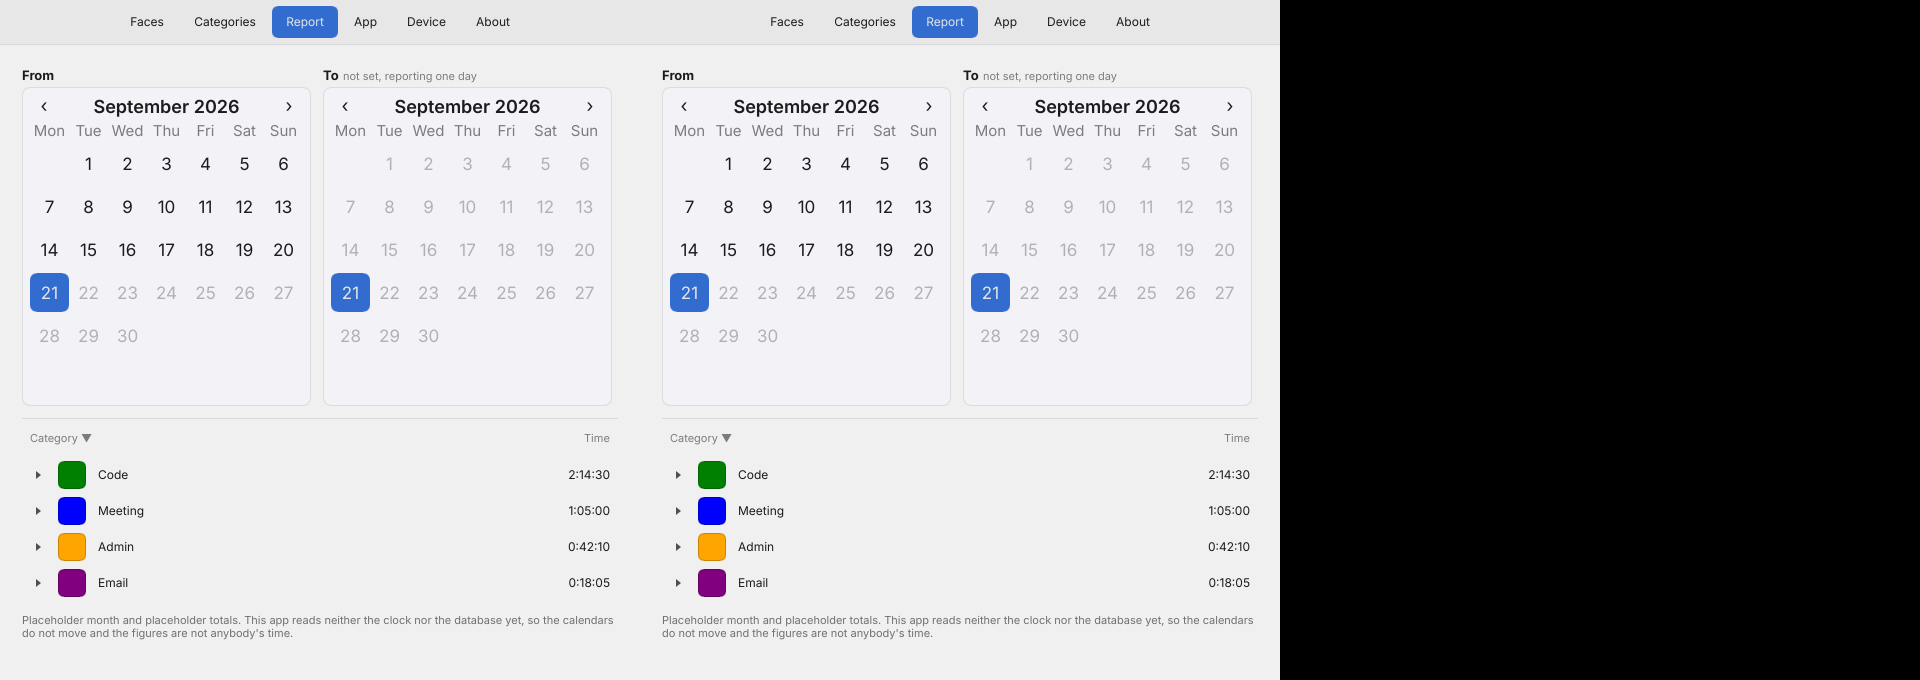
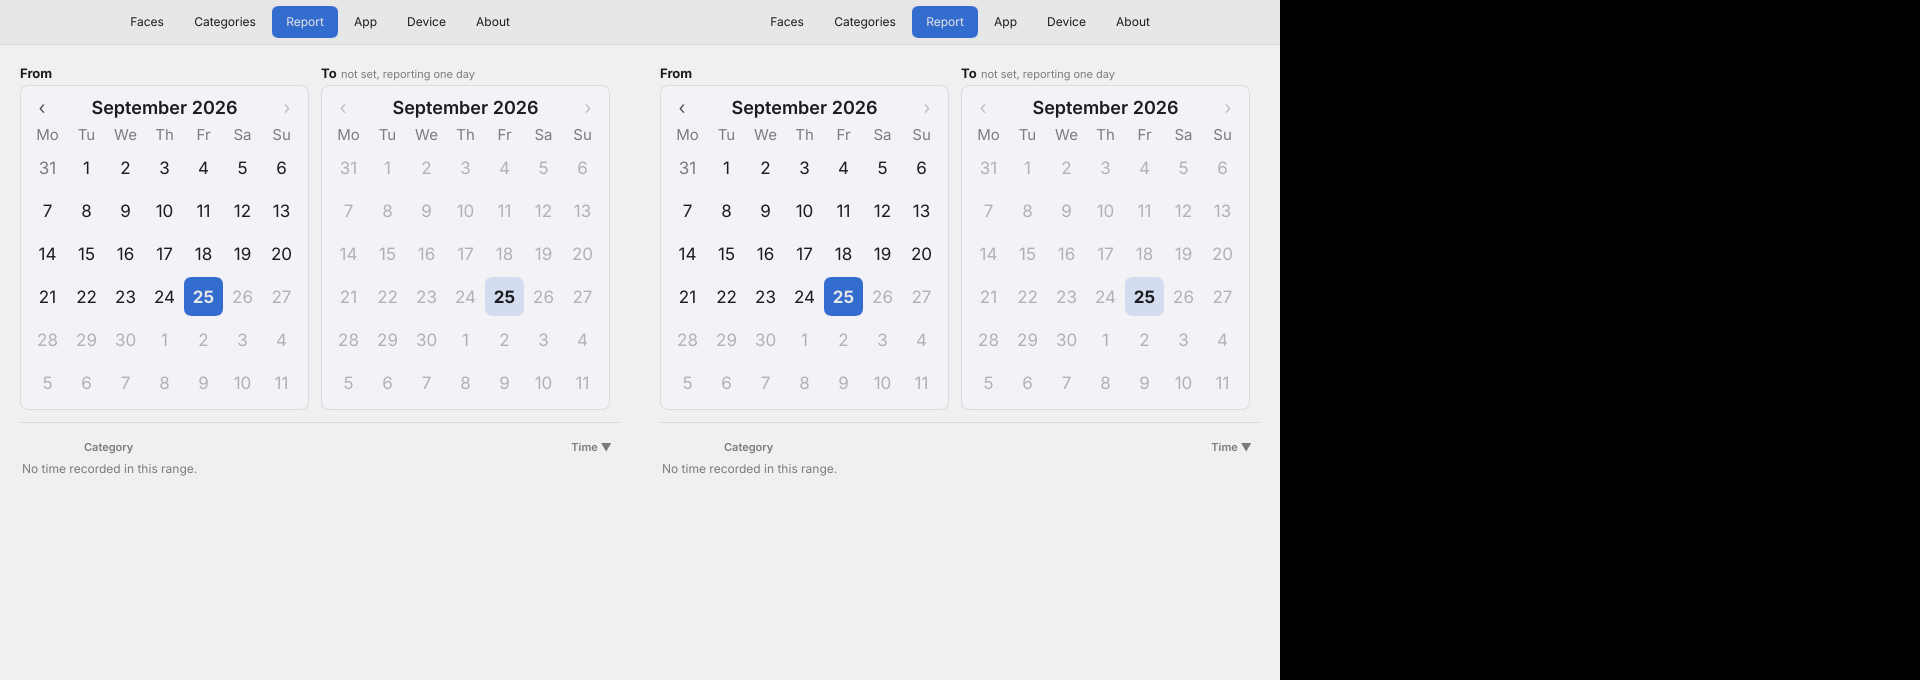
Render the Linux set on feature/reportTab with FACET_NOW, and rebuild compare
Against a clean test database with FACET_NOW at noon on 25 September
2026, all six Linux renders are byte-identical to the Mac's at 9df4256.
Only 3-report.png changed from the previous Linux set; compare/ is
rebuilt and every diff panel is empty.

diff --git a/docs/settings-tabs/README.md b/docs/settings-tabs/README.md
@@ -37,9 +37,9 @@ reproduce.
 
 | | |
 |---|---|
-| [`linux/`](linux/) | Linux Mint 22.3, MATE 1.26.1, X11, `x86_64`. Rendered 2026-09-25 on `feature/catergoryTab` at `4f7690c`, against a clean test database. `2-categories.png` is the Categories tab read from the database; the other five came out byte-identical to the set before |
+| [`linux/`](linux/) | Linux Mint 22.3, MATE 1.26.1, X11, `x86_64`. Rendered 2026-09-26 on `feature/reportTab` at `3f2d8de`, against a clean test database with `FACET_NOW` at noon on 25 September 2026. `3-report.png` is the Report tab read from the database; the other five came out byte-identical to the set before |
 | [`mac/`](mac/) | macOS 26.6.2, Apple silicon, `arm64`. Rendered 2026-09-26 on `feature/reportTab` at `3189bac`, against a clean test database with `FACET_NOW` at noon on 25 September 2026. `3-report.png` is the Report tab read from the database; the other five are unchanged |
-| [`compare/`](compare/) | One image per tab: Mac, Linux, and the pixels that differ between them. Rebuilt 2026-09-25 from Mac `e5992ef` and Linux `4f7690c`; every diff panel is empty, and all six PNGs are byte-identical across the two machines, `2-categories.png` with its icons, disabled checkbox and stepper included **Stale for `3-report.png`** until `linux/` is re-rendered on `feature/reportTab` |
+| [`compare/`](compare/) | One image per tab: Mac, Linux, and the pixels that differ between them. Rebuilt 2026-09-26 from Mac `9df4256` and Linux `3f2d8de`; every diff panel is empty, and all six PNGs are byte-identical across the two machines, `3-report.png` with its two calendars on September 2026 included |
 
 **These are Slint's software renderer, not screenshots of the running app.** It draws into a buffer with
 no window server involved, so window chrome and compositing are out of the comparison.
